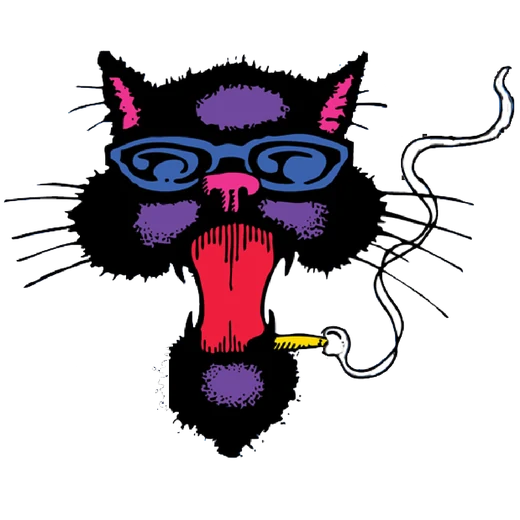
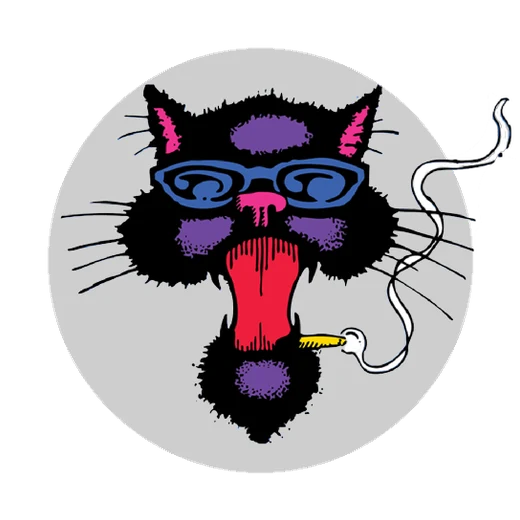
Hero + club section: the classic black cat on a neutral grey circle, centred on the cat's body (whiskers and smoke ignored), smoke trailing out; tested 4 pages x 15 resolutions
Claude-Session: https://claude.ai/code/session_01GSmkHmkuyB1ZdtYcidqpjt

diff --git a/assets/site.css b/assets/site.css
@@ -85,6 +85,8 @@ section { padding-block: clamp(40px, 7vw, 88px); }
 .hero .over { position: absolute; inset: auto 0 0 0; padding: 24px var(--gut) clamp(20px, 4vw, 48px);
   background: linear-gradient(transparent, rgba(7, 9, 13, .92) 55%); display: grid; gap: 12px; }
 .hero .logo { width: min(520px, 78vw); filter: invert(1) hue-rotate(180deg); }
+/* Jeff 2026-10-05: the hero logo keeps the classic black cat in true colour on a cream circle; the wordmark is pre-whitened in the file */
+.hero .logo.blackcat { filter: none; }
 .hero .est { width: min(300px, 52vw); filter: invert(1); opacity: .9; }
 .hero .cta { display: flex; flex-wrap: wrap; gap: 10px; margin-top: 8px; }
 .credit { position: absolute; right: var(--gut); top: 10px; font-size: 12px; color: var(--muted); background: rgba(0, 0, 0, .5); padding: 2px 8px; border-radius: 6px; }
@@ -106,8 +108,7 @@ section { padding-block: clamp(40px, 7vw, 88px); }
 .club-band { background: radial-gradient(1200px 500px at 85% 0%, rgba(201, 138, 59, .18), transparent 60%), var(--panel-2);
   border-block: 1px solid #3a2f26; }
 .club-grid { display: grid; gap: 28px; align-items: center; }
-/* Jeff 2026-10-05: the classic black cat, same size and spot, on a cream circle for contrast */
-.club-grid .cat { width: clamp(120px, 22vw, 260px); aspect-ratio: 1; box-sizing: border-box; padding: 11%; border-radius: 50%; background: #f1e6d6; object-fit: contain; filter: drop-shadow(0 0 30px rgba(201, 138, 59, .3)); }
+.club-grid .cat { width: clamp(120px, 22vw, 260px); aspect-ratio: 1; }  /* the hero's black cat + grey circle, baked into the file */
 @media (min-width: 900px) { .club-grid { grid-template-columns: auto 1fr; gap: 56px; } }
 .facts { display: grid; grid-template-columns: repeat(auto-fit, minmax(200px, 1fr)); gap: 12px; margin-top: 24px; }
 .fact { background: rgba(0, 0, 0, .28); border: 1px solid #3a2f26; border-radius: 14px; padding: 16px 18px; }
